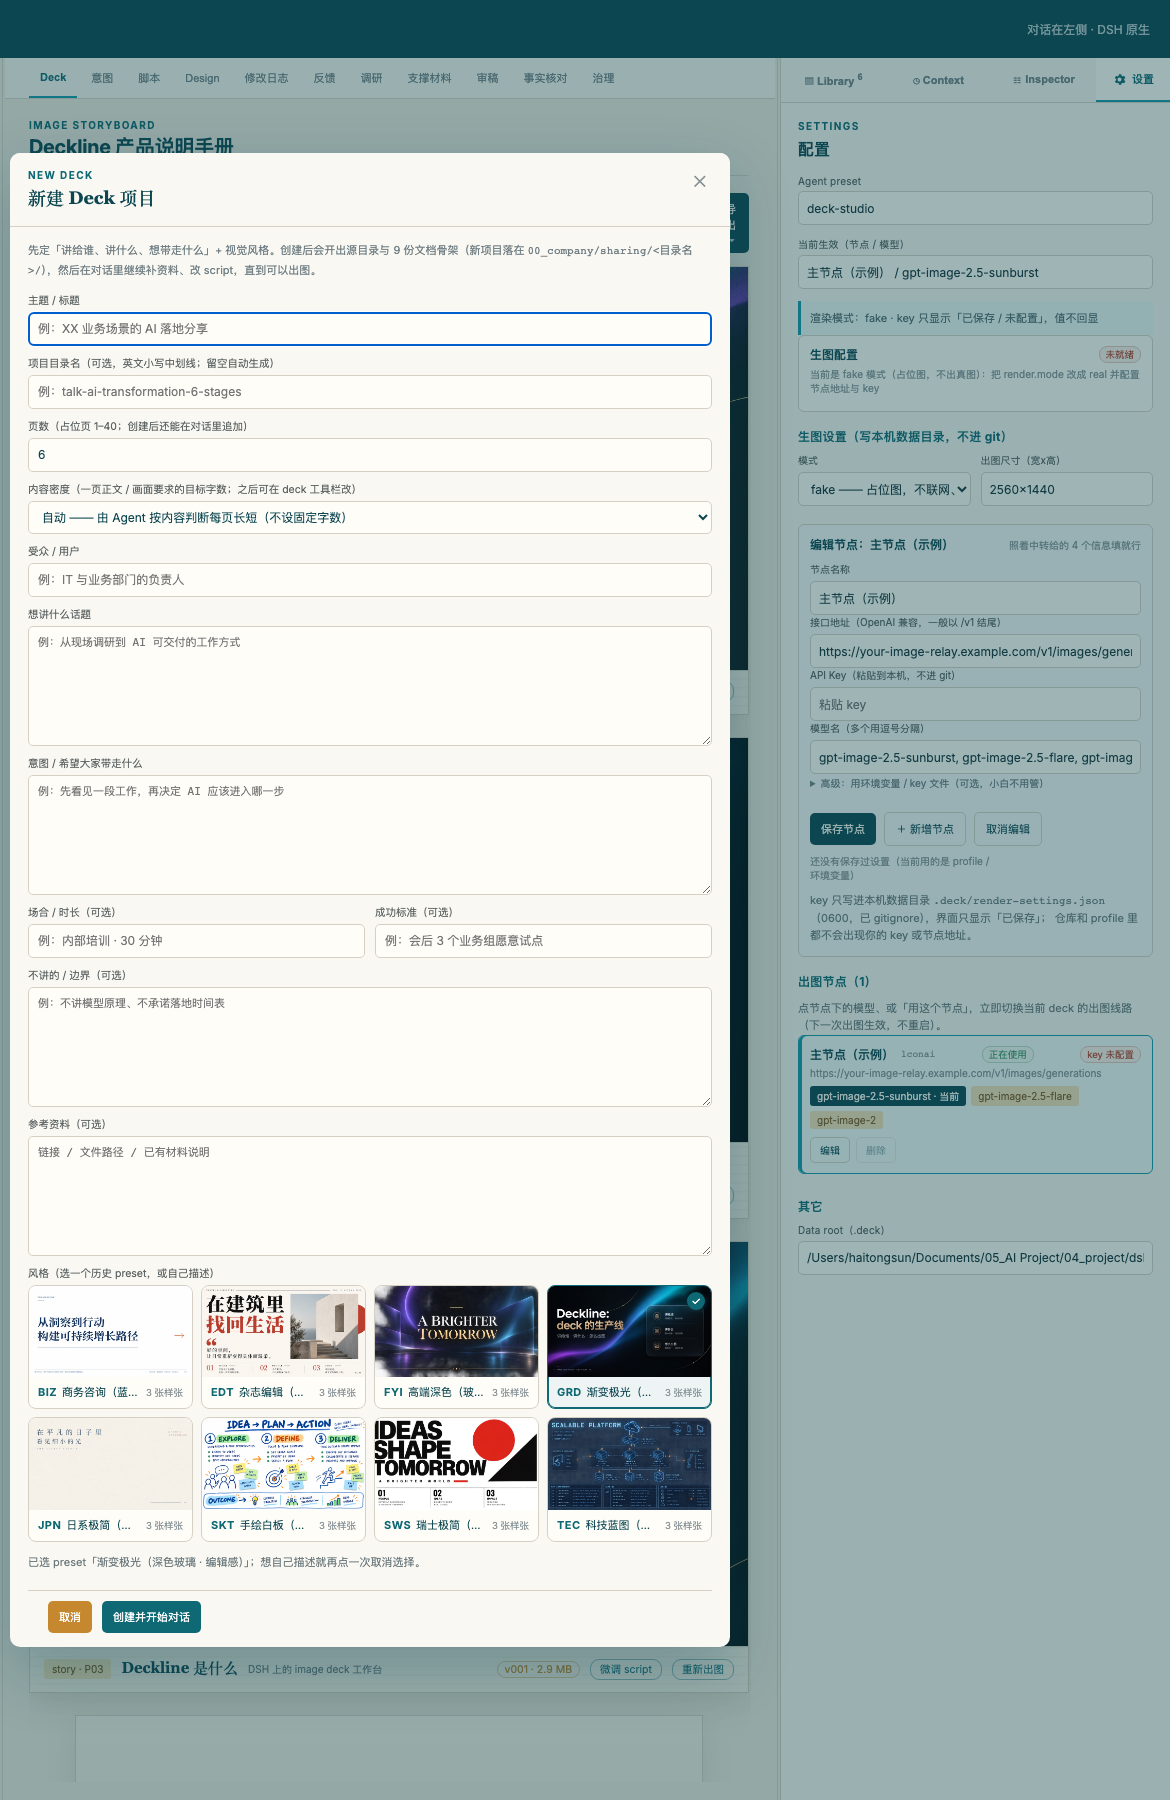
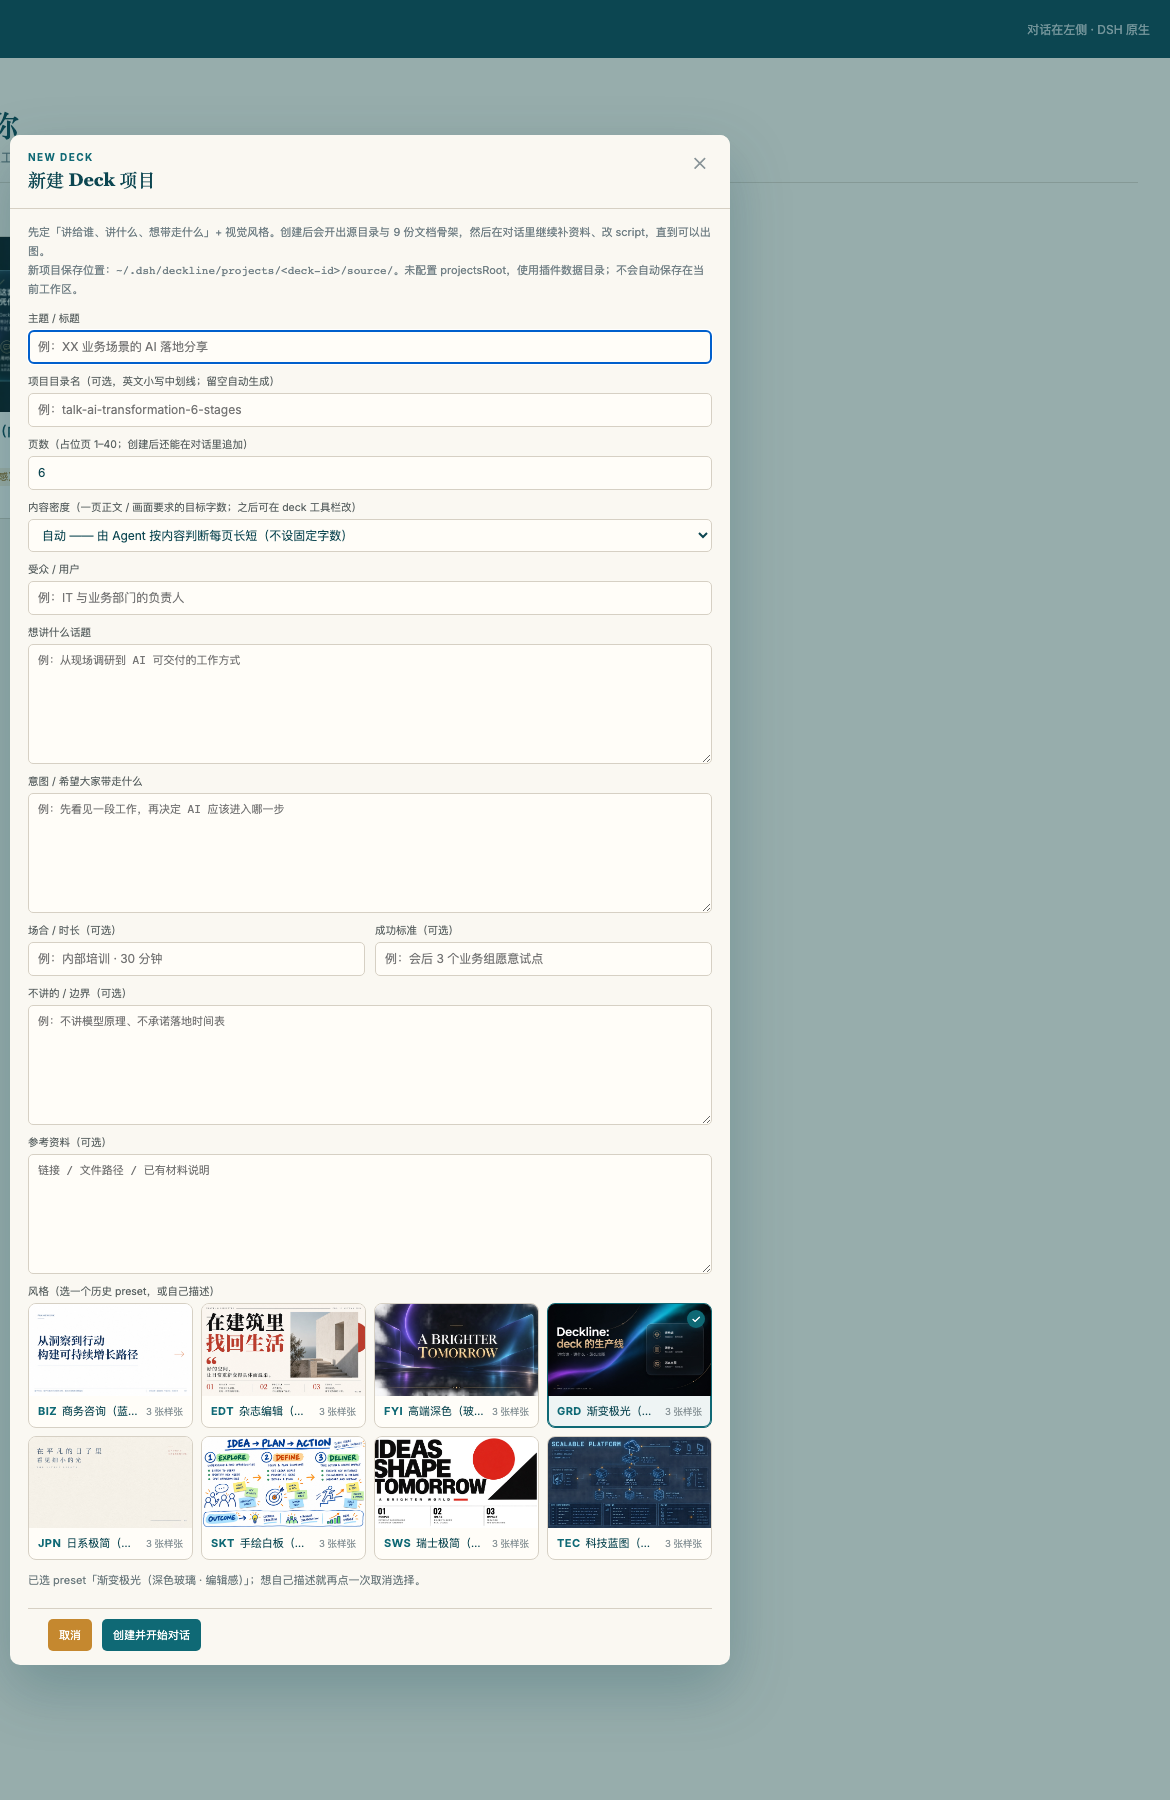
fix: show configured deck storage and remove local path assumptions

diff --git a/plugin/deck-studio/ui/workbench.html b/plugin/deck-studio/ui/workbench.html
@@ -130,7 +130,7 @@
       <button class="modal-close" id="ndClose" title="关闭">✕</button>
     </div>
     <form class="modal-body newdeck-body" id="newDeckForm">
-      <p class="nd-tip">先定「讲给谁、讲什么、想带走什么」+ 视觉风格。创建后会开出源目录与 9 份文档骨架（新项目落在 <code>00_company/sharing/&lt;目录名&gt;/</code>），然后在对话里继续补资料、改 script，直到可以出图。</p>
+      <p class="nd-tip">先定「讲给谁、讲什么、想带走什么」+ 视觉风格。创建后会开出源目录与 9 份文档骨架，然后在对话里继续补资料、改 script，直到可以出图。<br>新项目保存位置：<code id="ndStoragePath">正在读取配置…</code>。<span id="ndStorageNote"></span></p>
       <label class="field"><span>主题 / 标题</span><input id="ndTitle" required placeholder="例：XX 业务场景的 AI 落地分享"></label>
       <label class="field"><span>项目目录名（可选，英文小写中划线；留空自动生成）</span><input id="ndDirName" placeholder="例：talk-ai-transformation-6-stages"></label>
       <label class="field"><span>页数（占位页 1–40；创建后还能在对话里追加）</span><input id="ndPages" type="number" min="1" max="40" inputmode="numeric" value="6"></label>
@@ -3468,11 +3468,23 @@ function renderDeckStyleChoices() {
   }
 }
 
+function newDeckStorageInfo(config = {}) {
+  const root = String(config?.projectsRoot || "").trim();
+  const dataRoot = String(config?.dataRoot || "").trim();
+  const append = (base, suffix) => `${base.replace(/[\\/]+$/, "")}/${suffix}`;
+  if (root) return { path: append(root, "<目录名或自动生成的 deck-id>/"), note: "由 profile 的 projectsRoot 配置；与会话工作区独立。" };
+  if (dataRoot) return { path: append(dataRoot, "projects/<deck-id>/source/"), note: "未配置 projectsRoot，使用插件数据目录；不会自动保存在当前工作区。" };
+  return { path: "暂时无法确定", note: "请等待工作台配置加载后重试；未配置 projectsRoot 时使用 <dataRoot>/projects/<deck-id>/source/。" };
+}
+
 function openNewDeckModal() {
   // F-112：profile 里配了 defaultStyleAbbr 就默认预选这个风格（用户仍可改/取消）。
   STATE.ndStyleAbbr = String(STATE.data?.config?.defaultStyleAbbr || "");
   getEl("newDeckForm").reset();
   getEl("ndState").textContent = "";
+  const storage = newDeckStorageInfo(STATE.data?.config);
+  getEl("ndStoragePath").textContent = storage.path;
+  getEl("ndStorageNote").textContent = storage.note;
   getEl("newDeckModal").hidden = false;
   renderDeckStyleChoices();
   setTimeout(() => getEl("ndTitle").focus(), 30);

diff --git a/plugin/deck-studio/index.js b/plugin/deck-studio/index.js
@@ -365,9 +365,8 @@ export function createService(config, logger, env = process.env) {
     const pad = (n) => String(n).padStart(2, "0");
     const now = new Date();
     const id = `deck-${now.getFullYear()}${pad(now.getMonth() + 1)}${pad(now.getDate())}-${pad(now.getHours())}${pad(now.getMinutes())}-${Math.random().toString(36).slice(2, 6)}`;
-    // 新建 deck 的去处（负责人 2026-10-21）：配置了 projectsRoot 就落在共享根
-    // （`00_company/sharing/<目录名>/`，和已有 deck 源结构一致）；不配则沿用旧的
-    // 内部 `.deck/projects/<id>/source`。design 空白画布始终走内部数据目录。
+    // 配置 projectsRoot 时落在 <projectsRoot>/<目录名或id>/；否则使用
+    // <dataRoot>/projects/<id>/source。design 空白画布始终走数据目录。
     const projectsRoot = blank ? "" : String(config.projectsRoot ?? "").trim();
     const slug = blank ? "" : normalizeDeckSlug(payload.dirName);
     let sourceRoot;
@@ -1980,6 +1979,7 @@ export function createService(config, logger, env = process.env) {
         renderEndpoint: config.render.endpoint,
         renderSize: config.render.size,
         dataRoot: config.dataRoot,
+        projectsRoot: config.projectsRoot,
         displayName: config.displayName,
         hideShellSidebar: config.hideShellSidebar === true,
         defaultStyleAbbr: config.defaultStyleAbbr,

diff --git a/plugin/deck-studio/lib/config.js b/plugin/deck-studio/lib/config.js
@@ -152,8 +152,8 @@ export function mergeConfig(raw, options = {}) {
         env,
       ) || defaultDataRoot(env),
     /**
-     * 新建 deck 项目的落盘根（2026-10-21 负责人：以后写的 deck 都放
-     * `00_company/sharing/`）。留空 = 旧的内部 `.deck/projects/<id>/source`。
+     * 新建 deck 项目的落盘根。留空 = <dataRoot>/projects/<id>/source。
+     * 与会话 workspacePath 独立；默认数据根不在插件安装目录内。
      * 配置了这个根时，新项目直接建在 `<projectsRoot>/<目录名>/`
      * （script.md / intent.md / style-reference.md / prompts/ 同层，和已有 deck 源结构一致）。
      */

diff --git a/docs/install.en.md b/docs/install.en.md
@@ -77,16 +77,18 @@ The minimum (append to the profile's `cordis.patch.yml`):
   config:
     displayName: 'Deckline'
     userName: 'Yuna'
-    # where new decks are created; empty = the plugin's internal .deck/projects/<id>/source
-    projectsRoot: '/absolute/path/to/your/sharing'
+    # root for new deck source files; empty = <dataRoot>/projects/<deck-id>/source
+    projectsRoot: '/absolute/path/to/your/decks'
+    # workspacePath: '/absolute/path/to/your/workspace'  # DSH chat workspace, not storage
     decks:
       - id: my-deck
         label: 'My deck'
         sourceRoot: '/absolute/path/to/my-deck'
 ```
 
-> `decks[].sourceRoot` is read-only: Deckline never writes to the source directory; all edits and
-> revisions live in `.deck/`. You can also start with **＋ New Deck** if you have no deck yet.
+> `decks[].sourceRoot` is a managed source and always read-only: Deckline never writes to it; working copies,
+> revisions and renders live under `dataRoot`. A locally created deck is different: after user confirmation,
+> script / intent source files may be written back to that local project directory. You can also start with **＋ New Deck** if you have no deck yet.
 
 ### Per-deck project rules (optional)
 
@@ -125,14 +127,15 @@ creating a deck, check this table first.
 - **`dataRoot` defaults to `$DSH_HOME/deckline`** (usually `~/.dsh/deckline`) — never inside the plugin
   package, so plugin upgrades do not touch it. Override with `dataRoot: '/your/path'` in the profile patch,
   or the `DSH_DECK_DATA_ROOT` env var.
-- **`projectsRoot`** decides where new decks are created; if unset they go to `<dataRoot>/projects/<deckId>/source`.
-- **Managed source decks are read-only**: Deckline never writes to a deck registered via `decks[].sourceRoot`.
+- **`projectsRoot`** decides where locally created deck source files live; if unset they go to `<dataRoot>/projects/<deckId>/source`. It does not select the chat workspace.
+- **`workspacePath`** selects the DSH workspace used for conversation binding; it is independent of `projectsRoot` / `dataRoot`. If unset, Deckline resolves it from the startup and source directories.
+- **Managed source decks are read-only**: Deckline never writes to a deck registered via `decks[].sourceRoot`; a confirmed local deck may write back to its own source files.
 - **Backup**: archive `dataRoot` and `projectsRoot` together (documents + images + events):
   ```sh
   tar czf deckline-backup-$(date +%Y%m%d).tgz "$DSH_HOME/deckline" "<your projectsRoot>"
   ```
-- The workbench **Settings** panel shows the current data directory; a dev profile may point `dataRoot` at
-  a directory inside the source tree (e.g. `.deck/`) explicitly.
+- The workbench **Settings** panel shows the current data directory; keep `dataRoot` outside the source tree
+  in normal installs so runtime data is portable and plugin upgrades cannot overwrite it.
 
 ## 3. Start
 
@@ -216,7 +219,7 @@ bottom of the preview (paste / pick files work the same way).
 
 Samples live under `designs/<ABBR>/` (ABBR is your style abbreviation):
 
-- canvas directory (recommended): `.deck/projects/<canvasDeckId>/source/designs/<ABBR>/`;
+- canvas directory (recommended): `<dataRoot>/projects/<canvasDeckId>/source/designs/<ABBR>/`;
 - or `designs/<ABBR>/` inside any managed deck source (Deckline scans and merges them).
 
 Refresh the page afterwards. png / jpg / webp are supported; names are free-form
@@ -235,7 +238,7 @@ Swiss minimal / aurora gradient), each with samples. See [styles.md](styles.md).
 | Port already in use | `dsh --profile deckline --port 13100`; or kill the old process with `lsof -tiTCP:13090 -sTCP:LISTEN` |
 | Page 404 / blank | Make sure the plugin bundle is enabled: `dsh --profile deckline --dump-config \| grep deck-studio` |
 | No "render" button / render fails | Check the key state in Settings; confirm `render.mode: real`; `curl` the node endpoint |
-| New decks land in the wrong place | Set `projectsRoot`; otherwise they go to the plugin data directory `.deck/projects/` |
+| New decks land in the wrong place | Set `projectsRoot`; otherwise they go to `<dataRoot>/projects/` (by default `<DSH_HOME>/deckline/projects/`) |
 | Where are data / samples | See section 2.5: source decks in `projectsRoot`, working copies / renders in `dataRoot` (default `~/.dsh/deckline`) |
 | Upgrading the plugin | `dsh plugin --profile deckline install <spec>`, or `add` the new version again |
 

diff --git a/README.en.md b/README.en.md
@@ -20,7 +20,7 @@ It turns "who is this for, what do we say, how do we draw it" into a traceable p
 - Images are rendered **one slide at a time**; each slide keeps its prompt, image, revisions, QA and events;
 - **Present immediately**: fullscreen playback, arrow-key navigation and Esc to exit — no export required;
 - **8 built-in style templates + template management**: preview samples, create your own designs and reuse them across decks;
-- The source deck directory is **read-only**; all edits land in the local `.deck/` workspace (gitignored, never committed).
+- **Configurable storage**: runtime data defaults to `$DSH_HOME/deckline` (usually `~/.dsh/deckline`); managed source decks are read-only, while a confirmed local deck may write back to its source files.
 
 > A sample deck built with Deckline itself: [docs/sample-deck.md](docs/sample-deck.md) (Chinese).
 
@@ -81,7 +81,7 @@ See the [style guide](docs/styles.en.md) and [user manual](docs/manual.en.md) fo
 
 ## Configuration
 
-Everything is configured in the **profile patch**: `~/.dsh/profiles/deckline/cordis.patch.yml`.
+Everything is configured in the **profile patch**: `~/.dsh/profiles/deckline/cordis.patch.yml`. `dataRoot` defaults to `$DSH_HOME/deckline` (usually `~/.dsh/deckline`); `projectsRoot` controls local deck source files, while `workspacePath` only controls DSH conversation workspace binding.
 Copy the template at [`plugin/deck-studio/cordis.example.yml`](plugin/deck-studio/cordis.example.yml).
 
 ```yaml
@@ -91,7 +91,8 @@ Copy the template at [`plugin/deck-studio/cordis.example.yml`](plugin/deck-studi
     displayName: 'Deckline'
     hideShellSidebar: true        # optional: collapse the DSH sidebar in this profile (default false)
     userName: 'your-name'
-    projectsRoot: '/absolute/path/to/your/sharing'   # where new decks are created
+    projectsRoot: '/absolute/path/to/your/decks'     # root for new deck source files
+    # workspacePath: '/absolute/path/to/your/workspace' # DSH chat workspace binding, not storage
     decks:                                            # read-only source decks
       - id: my-deck
         label: 'My deck'

diff --git a/docs/styles.en.md b/docs/styles.en.md
@@ -42,8 +42,8 @@ bottom of the preview (paste / pick files work the same way).
 ### Way 2: drop files directly
 
 Put images under `designs/<ABBR>/` (canvas directory
-`.deck/projects/<canvasDeckId>/source/designs/<ABBR>/`, or `designs/<ABBR>/` inside any managed deck
-source). png / jpg / webp are supported; refresh the page afterwards.
+`<dataRoot>/projects/<canvasDeckId>/source/designs/<ABBR>/`). Existing `designs/<ABBR>/` directories in managed sources are also scanned read-only.
+Prefer uploading new samples through the canvas rather than modifying managed sources. png / jpg / webp are supported; refresh the page afterwards.
 
 Fields of `style.json` (the plugin also writes one automatically):
 
@@ -104,7 +104,7 @@ node scripts/f74-regenerate-presets.mjs --only=BIZ --limit=1
 ```
 
 What the script does: sync `styleBrief` from `seeds/styles/<ABBR>.json` into the online design's
-`style.json` → back up old samples to `.deck/tmp/f74-old-samples/<ABBR>/` → render one image per
+`style.json` → back up old samples to `<dataRoot>/tmp/f74-old-samples/<ABBR>/` → render one image per
 `baselineBriefs` entry (prompt recorded in `samples.jsonl`) → downscale and write back into `seeds/samples/`.
 Refresh the Designs page afterwards; no service restart needed.
 
